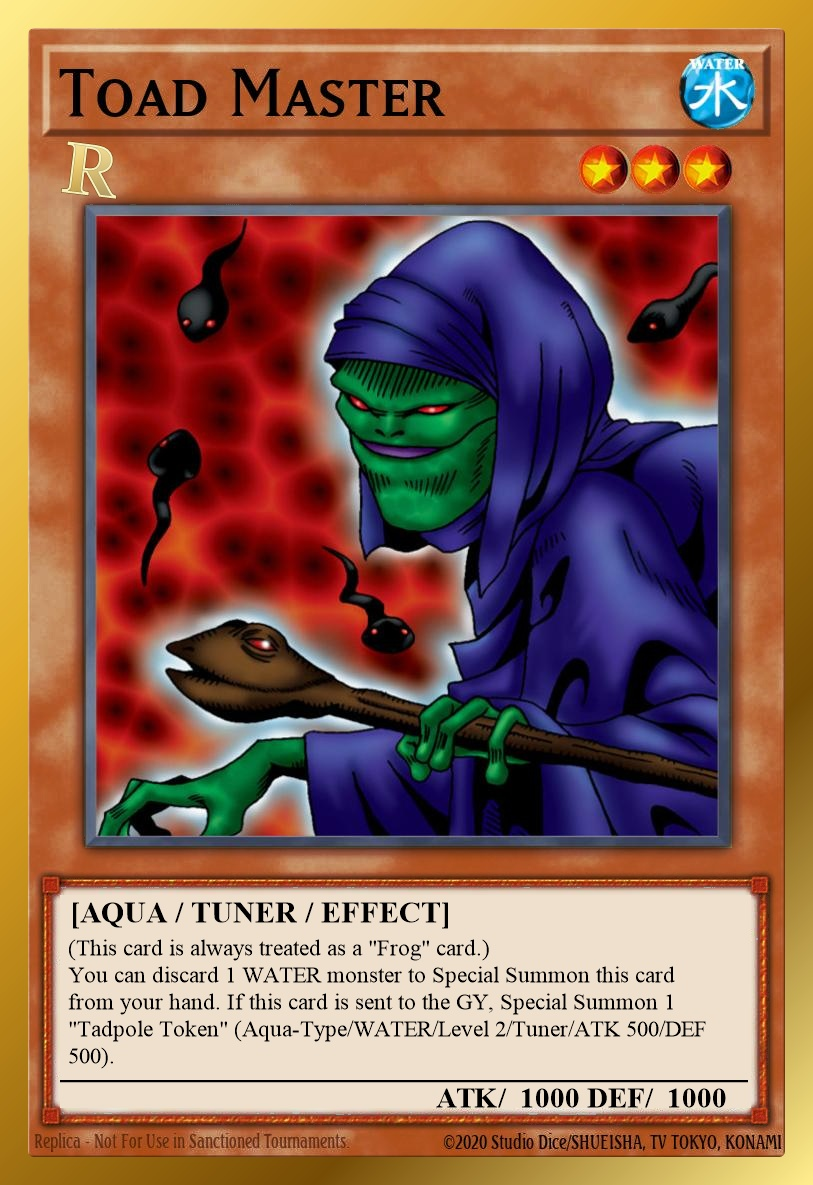
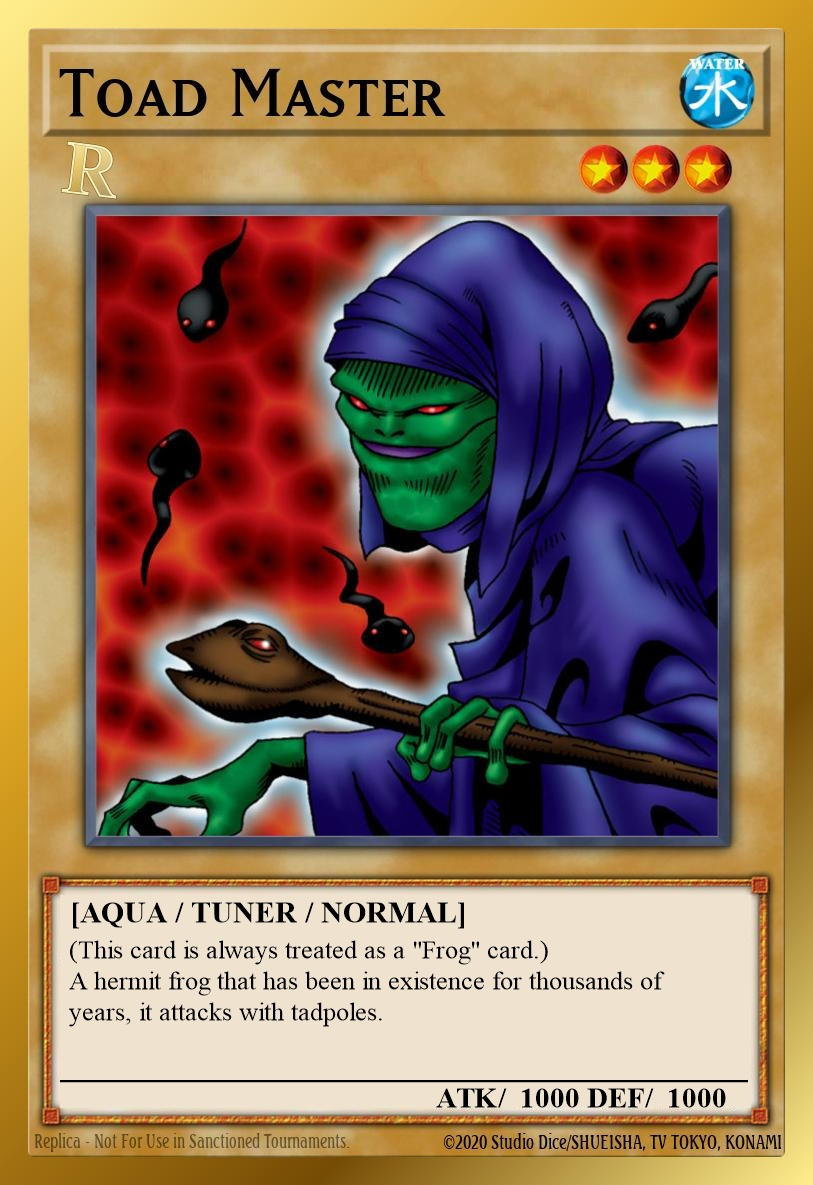
Frog Update

Changed region(s): [[0.0308, 0.0, 0.984, 0.9992]]

diff --git a/Redux/scripts/build-cards-cdb.js b/Redux/scripts/build-cards-cdb.js
@@ -462,57 +462,22 @@ module.exports = function buildCardsDb({ reduxRoot }) {
       68638985,
     );
   const frogSetcodeResult = db
-    .prepare("UPDATE datas SET setcode = ? WHERE id IN (?, ?)")
-    .run(0x12, 68638985, 20663556);
+    .prepare("UPDATE datas SET setcode = ? WHERE id IN (?, ?, ?)")
+    .run(0x12, 68638985, 20663556, 62671448);
   const slimeToadTypeResult = db
     .prepare("UPDATE datas SET type = (type | ?) & ~? WHERE id = ?")
     .run(0x1020, 0x10, 68638985);
   const toadMasterTextResult = db
     .prepare("UPDATE texts SET desc = ?, str1 = ?, str2 = ? WHERE id = ?")
     .run(
-      '(This card is always treated as a "Frog" card.)\nYou can discard 1 WATER monster to Special Summon this card from your hand. If this card is sent to the GY, Special Summon 1 "Tadpole Token" (Aqua-Type/WATER/Level 2/Tuner/ATK 500/DEF 500).',
-      "Discard 1 WATER monster to Special Summon this card",
-      'Special Summon 1 "Tadpole Token"',
+      '(This card is always treated as a "Frog" card.)\nA hermit frog that has been in existence for thousands of years, it attacks with tadpoles.',
+      "",
+      "",
       62671448,
     );
-  const toadMasterDataResult = db
-    .prepare("UPDATE datas SET type = (type | ?) & ~?, setcode = ? WHERE id = ?")
-    .run(0x1020, 0x10, 0x12, 62671448);
-  const tadpoleTokenDataResult = db
-    .prepare(
-      `INSERT INTO datas (
-        id, ot, alias, setcode, type, atk, def, level, race, attribute, category
-      ) VALUES (?, ?, ?, ?, ?, ?, ?, ?, ?, ?, ?)`,
-    )
-    .run(62671449, 1, 0, 0, 0x5011, 500, 500, 2, 0x40, 0x2, 0);
-  const tadpoleTokenTextResult = db
-    .prepare(
-      `INSERT INTO texts (
-        id, name, desc, str1, str2, str3, str4, str5, str6, str7, str8, str9,
-        str10, str11, str12, str13, str14, str15, str16
-      ) VALUES (?, ?, ?, ?, ?, ?, ?, ?, ?, ?, ?, ?, ?, ?, ?, ?, ?, ?, ?)`,
-    )
-    .run(
-      62671449,
-      "Tadpole Token",
-      'Special Summoned with the effect of "[Redux] Toad Master".',
-      "",
-      "",
-      "",
-      "",
-      "",
-      "",
-      "",
-      "",
-      "",
-      "",
-      "",
-      "",
-      "",
-      "",
-      "",
-      "",
-    );
+  const toadMasterTypeResult = db
+    .prepare("UPDATE datas SET type = (type | ?) & ~? WHERE id = ?")
+    .run(0x1010, 0x20, 62671448);
   const substitoadTextResult = db
     .prepare("UPDATE texts SET desc = ?, str1 = ? WHERE id = ?")
     .run(
@@ -741,8 +706,8 @@ module.exports = function buildCardsDb({ reduxRoot }) {
   if (Number(slimeToadTextResult.changes) !== 1) {
     throw new Error("Expected to update Frog the Jam text once");
   }
-  if (Number(frogSetcodeResult.changes) !== 2) {
-    throw new Error("Expected to update Frog setcodes twice");
+  if (Number(frogSetcodeResult.changes) !== 3) {
+    throw new Error("Expected to update Frog setcodes three times");
   }
   if (Number(slimeToadTypeResult.changes) !== 1) {
     throw new Error("Expected to update Frog the Jam type once");
@@ -750,14 +715,8 @@ module.exports = function buildCardsDb({ reduxRoot }) {
   if (Number(toadMasterTextResult.changes) !== 1) {
     throw new Error("Expected to update Toad Master text once");
   }
-  if (Number(toadMasterDataResult.changes) !== 1) {
-    throw new Error("Expected to update Toad Master data once");
-  }
-  if (Number(tadpoleTokenDataResult.changes) !== 1) {
-    throw new Error("Expected to add Tadpole Token data once");
-  }
-  if (Number(tadpoleTokenTextResult.changes) !== 1) {
-    throw new Error("Expected to add Tadpole Token text once");
+  if (Number(toadMasterTypeResult.changes) !== 1) {
+    throw new Error("Expected to update Toad Master type once");
   }
   if (Number(substitoadTextResult.changes) !== 1) {
     throw new Error("Expected to update Substitoad text once");

diff --git a/Redux/scripts/build-lflist.js b/Redux/scripts/build-lflist.js
@@ -24,9 +24,7 @@ const limitChanges = new Map([
   ["511002992", 1], // Rescue Cat
   ["31560081", 3], // Magician of Faith
   ["511000818", 1], // Sinister Serpent
-  ["68638985", 2], // Frog the Jam
-  ["46239604", 2], // Dupe Frog
-  ["20663556", 2], // Substitoad
+  ["20663556", 3], // Substitoad
   ["93369354", 1], // Fishborg Blaster
   ["511000229", 1], // Dark Strike Fighter
   ["511002994", 1], // Goyo Guardian
@@ -132,7 +130,7 @@ const poolAdditions = [
   "3642509 3 --Elemental HERO Great Tornado",
   "1945387 3 --Elemental HERO Nova Master",
   "33574806 3 --Elemental HERO Escuridao",
-  "62671448 1 --Toad Master",
+  "62671448 3 --Toad Master",
   "64332231 3 --Hieratic Sun Dragon Overlord of Heliopolis",
   "698785 3 --Thunder End Dragon",
   "19333131 3 --Number 12: Crimson Shadow Armor Ninja",

diff --git a/README.md b/README.md
@@ -141,7 +141,7 @@ Redux Limits: `0` = forbidden; `1` = limited; `2` = semi-limited; `3` = unlimite
 | `3` [Ryko, Lightsworn Hunter](https://yugioh.fandom.com/wiki/Ryko,_Lightsworn_Hunter) | ⬇ Target before resolving (master rule 1) |
 | `3` [Swap Frog](https://yugioh.fandom.com/wiki/Swap_Frog) | ⬆ Revert to Master Rule 1 version |
 | `3` [The Last Warrior from Another Planet](https://yugioh.fandom.com/wiki/The_Last_Warrior_from_Another_Planet) | ⬇ No monster destruction; only blocks Special Summons |
-| `1` [Toad Master](https://yugioh.fandom.com/wiki/Toad_Master) | 🔄 Added; Effect Tuner; always Frog; discards WATER to summon; makes Tadpole Token |
+| `3` [Toad Master](https://yugioh.fandom.com/wiki/Toad_Master) | 🔄 Added to pool; Tuner; always Frog; normal monster lore |
 | `3` [X-Saber Airbellum](https://yugioh.fandom.com/wiki/X-Saber_Airbellum) | ⬇ Once per turn |
 | `3` [XX-Saber Gottoms](https://yugioh.fandom.com/wiki/XX-Saber_Gottoms) | ⬇ Once per turn |
 
@@ -259,7 +259,7 @@ Redux Limits: `0` = forbidden; `1` = limited; `2` = semi-limited; `3` = unlimite
 | [Skill Drain](https://yugioh.fandom.com/wiki/Skill_Drain) | 3 | `1` | 3 | ⬆ |
 | [Graceful Charity](https://yugioh.fandom.com/wiki/Graceful_Charity) | 0 | `2` | 0 | ⬇ |
 | [Dimension Fusion](https://yugioh.fandom.com/wiki/Dimension_Fusion) | 0 | `2` | 0 | 🔄 |
-| [Substitoad](https://yugioh.fandom.com/wiki/Substitoad) | 0 | `2` | 0 | 🔄 |
+| [Substitoad](https://yugioh.fandom.com/wiki/Substitoad) | 0 | `3` | 0 | 🔄 |
 | [Witch of the Black Forest](https://yugioh.fandom.com/wiki/Witch_of_the_Black_Forest) | 0 | `2` | 0 | ⬇ |
 | [Tsukuyomi](https://yugioh.fandom.com/wiki/Tsukuyomi) | 0 | `2` | 0 |  |
 | [Advanced Ritual Art](https://yugioh.fandom.com/wiki/Advanced_Ritual_Art) | 1 | `2` | 1 |  |
@@ -293,14 +293,14 @@ Redux Limits: `0` = forbidden; `1` = limited; `2` = semi-limited; `3` = unlimite
 | [Formula Synchron](https://yugioh.fandom.com/wiki/Formula_Synchron) | 3 | `2` | 1 |  |
 | [Pot of Avarice](https://yugioh.fandom.com/wiki/Pot_of_Avarice) | 3 | `2` | 1 |  |
 | [Alien Code A Ancient Ruins](https://yugioh.fandom.com/wiki/Code_A_Ancient_Ruins) | 3 | `2` | 3 | 🔄 |
-| [Dupe Frog](https://yugioh.fandom.com/wiki/Dupe_Frog) | 3 | `2` | 3 | ⬇ |
+| [Dupe Frog](https://yugioh.fandom.com/wiki/Dupe_Frog) | 3 | `3` | 3 | ⬇ |
 | [Alien Crop Circles](https://yugioh.fandom.com/wiki/Crop_Circles) | 3 | `1` | 3 | 🔄 |
 | [Dimensional Fissure](https://yugioh.fandom.com/wiki/Dimensional_Fissure) | 3 | `1` | 3 |  |
 | [Kaiser Colosseum](https://yugioh.fandom.com/wiki/Kaiser_Colosseum) | 3 | `1` | 3 |  |
 | [King Tiger Wanghu](https://yugioh.fandom.com/wiki/King_Tiger_Wanghu) | 3 | `1` | 3 |  |
 | [Macro Cosmos](https://yugioh.fandom.com/wiki/Macro_Cosmos) | 3 | `1` | 3 |  |
 | [Saber Hole](https://yugioh.fandom.com/wiki/Saber_Hole) | 3 | `2` | 3 |  |
-| [Frog the Jam](https://yugioh.fandom.com/wiki/Slime_Toad) | 3 | `2` | 3 | 🔄 |
+| [Frog the Jam](https://yugioh.fandom.com/wiki/Slime_Toad) | 3 | `3` | 3 | 🔄 |
 | [Self-Destruct Button](https://yugioh.fandom.com/wiki/Self-Destruct_Button) | 3 | `0` | 3 |  |
 | [Butterfly Dagger - Elma](https://yugioh.fandom.com/wiki/Butterfly_Dagger_-_Elma) | 0 | `3` | 0 | ⬆ |
 | [Destiny HERO - Disk Commander](https://yugioh.fandom.com/wiki/Destiny_HERO_-_Disk_Commander) | 0 | `3` | 0 | 🔄 |
